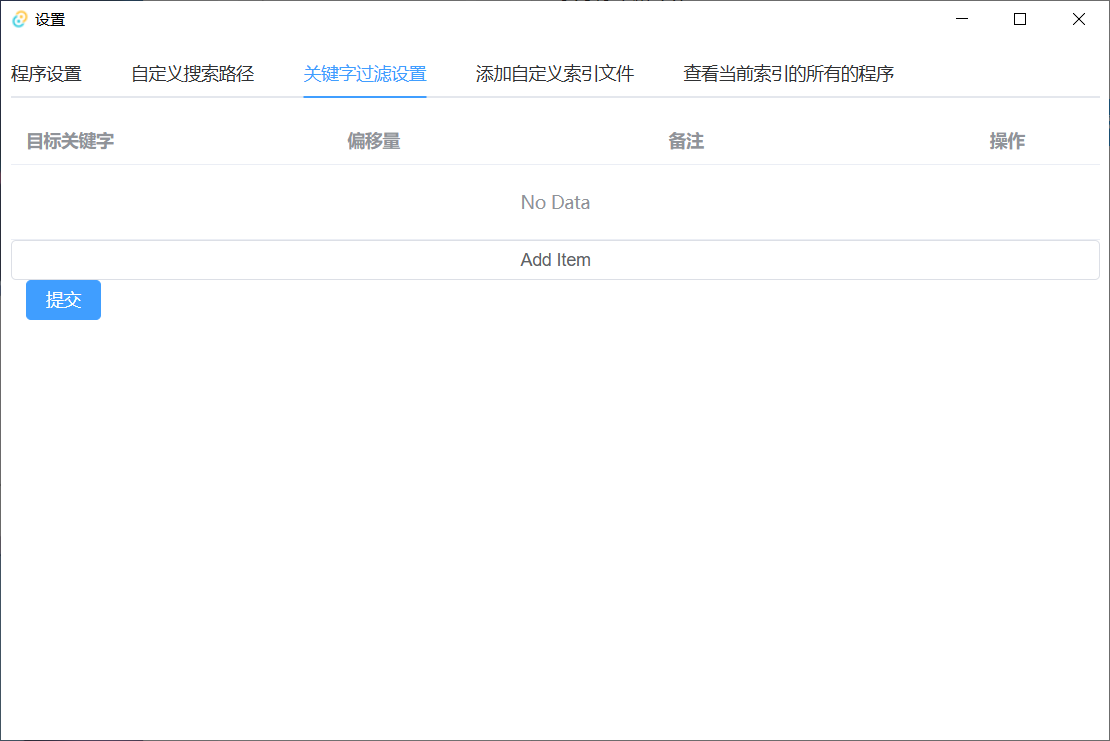
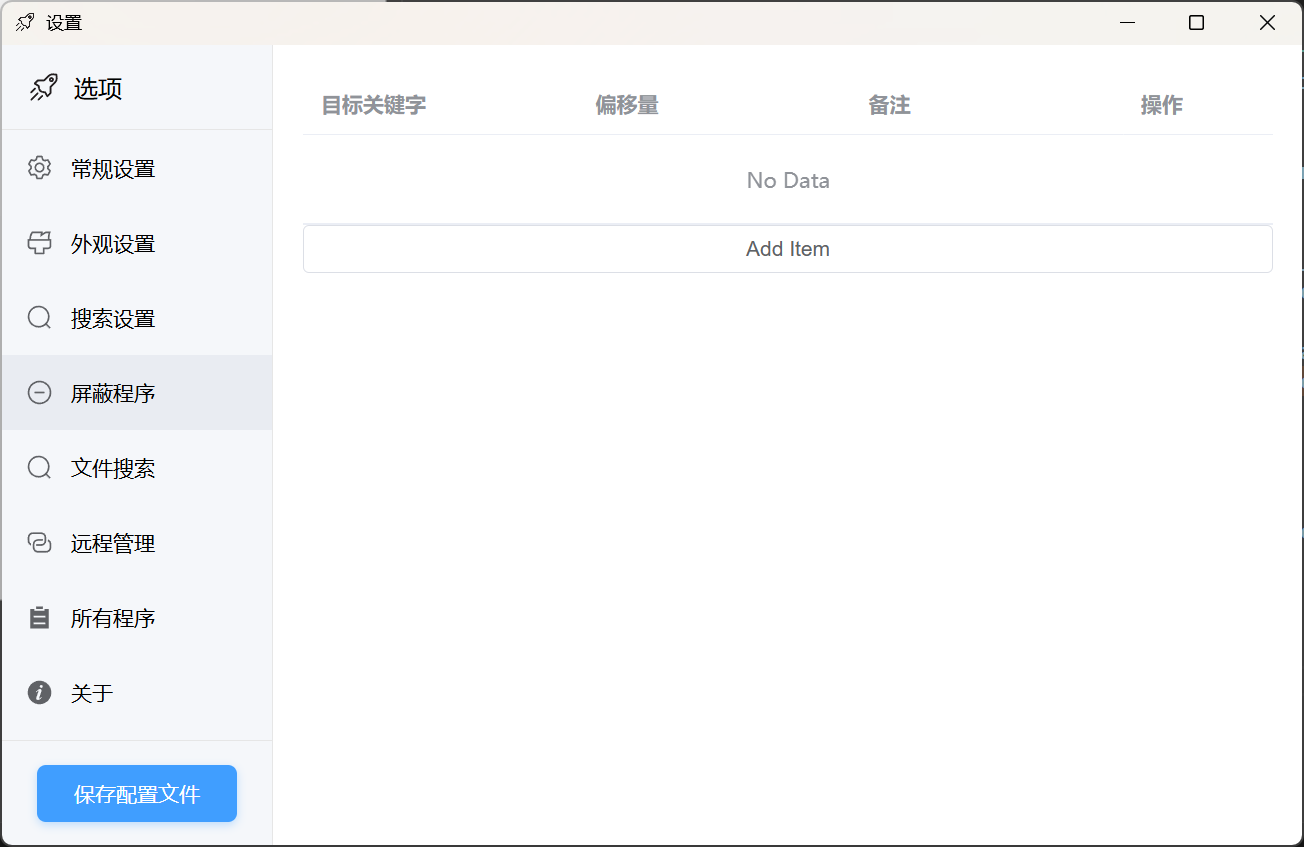
更新readme介绍图片

diff --git a/src/views/SettingWindow.vue b/src/views/SettingWindow.vue
@@ -334,7 +334,7 @@ import { ElMessage } from 'element-plus';
 import { open } from '@tauri-apps/plugin-dialog';
 import { useConfigStore } from '../stores/config';
 import { storeToRefs } from 'pinia';
-import { listen, UnlistenFn } from '@tauri-apps/api/event';
+import { UnlistenFn } from '@tauri-apps/api/event';
 import { rgbaToHex } from '../utils/color'
 
 const configStore = useConfigStore()

diff --git a/src-tauri/src/commands/ui_command.rs b/src-tauri/src/commands/ui_command.rs
@@ -135,7 +135,7 @@ pub async fn get_dominant_color<R: Runtime>(
 ) -> String {
     let content = ImageProcessor::load_image_from_path(&path);
     let ret = ImageProcessor::get_dominant_color(content).unwrap();
-    format!("#{:02X}{:02X}{:02X}", ret.0, ret.1, ret.2)
+    format!("rgba({}, {}, {}, 0.8)", ret.0, ret.1, ret.2)
 }
 
 /// 隐藏窗口

diff --git a/asset/picture-en.md b/asset/picture-en.md
@@ -24,6 +24,10 @@ Settings Interface
 
 ![设置界面](设置界面.png)
 
+Appearance Settings
+
+![外观设置](外观设置.png)
+
 Search Paths
 
 ![搜索路径](搜索路径.png)
@@ -35,6 +39,10 @@ Keyword Filtering
 Custom Index Files and URLs
 
 ![自定义索引文件与网址](自定义索引文件与网址.png)
+
+Configuration File Save Location
+
+![配置文件夹](配置文件夹.png)
 
 Application Statistics
 

diff --git a/asset/picture.md b/asset/picture.md
@@ -24,6 +24,10 @@
 
 ![设置界面](设置界面.png)
 
+外观设置
+
+![外观设置](外观设置.png)
+
 搜索路径
 
 ![搜索路径](搜索路径.png)
@@ -35,6 +39,10 @@
 自定义索引文件与网址
 
 ![自定义索引文件与网址](自定义索引文件与网址.png)
+
+配置文件保存地址
+
+![配置文件夹](配置文件夹.png)
 
 应用统计
 

diff --git a/asset/picture-cn.md b/asset/picture-cn.md
@@ -24,6 +24,10 @@
 
 ![设置界面](设置界面.png)
 
+外觀設定
+
+![外观设置](外观设置.png)
+
 搜尋路徑
 
 ![搜索路径](搜索路径.png)
@@ -35,6 +39,10 @@
 自訂索引檔案與網址
 
 ![自定义索引文件与网址](自定义索引文件与网址.png)
+
+配置文件保存地址
+
+![配置文件夹](配置文件夹.png)
 
 應用統計
 
